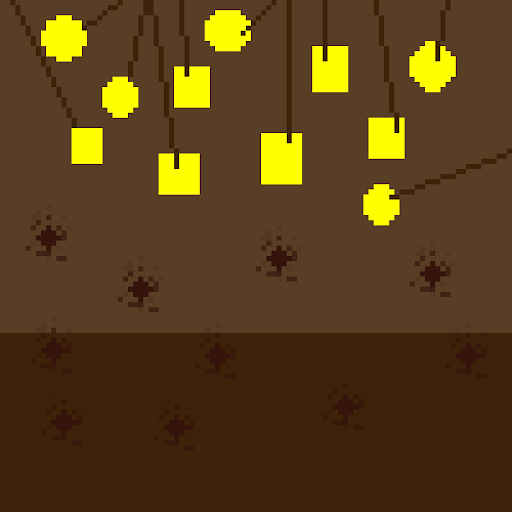
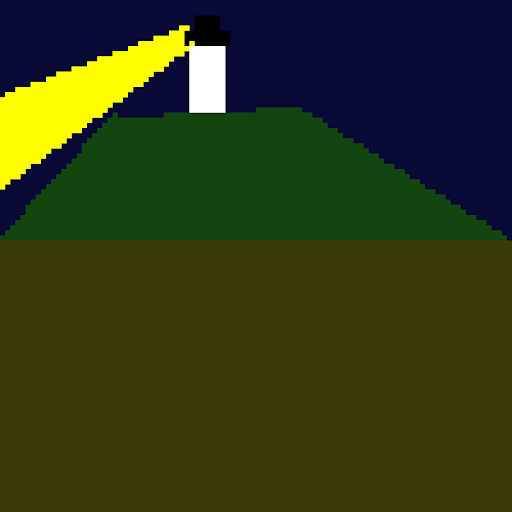
added more assets and showed in scene

diff --git a/scene.py b/scene.py
@@ -1,3 +1,5 @@
+from turtledemo.nim import SCREENWIDTH, SCREENHEIGHT
+
 import pygame
 from config import *
 
@@ -26,6 +28,7 @@ class SceneMain(SceneBase):
     def __init__(self):
         super().__init__()
         self.button_house = pygame.rect.Rect(BUTTON_HOUSE_X, BUTTON_HOUSE_Y, BUTTON_HOUSE_WIDTH, BUTTON_HOUSE_HEIGHT)
+        self.image_house = pygame.transform.smoothscale(pygame.image.load(HOUSE_IMAGE_PATH).convert_alpha(), (BUTTON_HOUSE_WIDTH, BUTTON_HOUSE_HEIGHT))
 
         self.button_murkey_water = pygame.rect.Rect(BUTTON_MURKEY_WATER_X, BUTTON_MURKEY_WATER_Y, BUTTON_MURKEY_WATER_WIDTH, BUTTON_MURKEY_WATER_HEIGHT)
         self.image_murkey_water = pygame.transform.smoothscale(pygame.image.load(MURKEY_WATER_IMAGE_PATH).convert_alpha(), (BUTTON_MURKEY_WATER_WIDTH, BUTTON_MURKEY_WATER_HEIGHT))
@@ -34,16 +37,21 @@ class SceneMain(SceneBase):
         self.image_boat_house = pygame.transform.smoothscale(pygame.image.load(BOAT_HOUSE_IMAGE_PATH).convert_alpha(), (BUTTON_BOAT_HOUSE_WIDTH, BUTTON_BOAT_HOUSE_HEIGHT))
 
         self.button_chapel = pygame.rect.Rect(BUTTON_CHAPEL_X, BUTTON_CHAPEL_Y, BUTTON_CHAPEL_WIDTH, BUTTON_CHAPEL_HEIGHT)
+        self.image_chapel = pygame.transform.smoothscale(pygame.image.load(CHAPEL_IMAGE_PATH).convert_alpha(), (BUTTON_CHAPEL_WIDTH, BUTTON_CHAPEL_HEIGHT))
 
         self.button_lighthouse = pygame.rect.Rect(BUTTON_LIGHTHOUSE_X, BUTTON_LIGHTHOUSE_Y, BUTTON_LIGHTHOUSE_WIDTH, BUTTON_LIGHTHOUSE_HEIGHT)
         self.image_lighthouse = pygame.transform.smoothscale(pygame.image.load(LIGHTHOUSE_IMAGE_PATH).convert_alpha(), (BUTTON_LIGHTHOUSE_WIDTH, BUTTON_LIGHTHOUSE_HEIGHT))
 
-
+        self.image_background = pygame.transform.smoothscale(pygame.image.load(BACKGROUND_IMAGE_PATH).convert_alpha(), (WINDOW_WIDTH, WINDOW_HEIGHT))
     def render(self, screen):
         screen.fill((0, 0, 0))
+        screen.blit(self.image_background, (0,0))
         screen.blit(self.image_boat_house, self.button_boat_house.topleft)
         screen.blit(self.image_murkey_water, self.button_murkey_water.topleft)
         screen.blit(self.image_lighthouse, self.button_lighthouse.topleft)
+        screen.blit(self.image_house, self.button_house.topleft)
+        screen.blit(self.image_chapel, self.button_chapel.topleft)
+
         pygame.draw.rect(screen, (0, 255, 0), self.button_house, 1)
         pygame.draw.rect(screen, (0, 255, 0), self.button_murkey_water, 1)
         pygame.draw.rect(screen, (0, 255, 0), self.button_boat_house, 1)

diff --git a/config.py b/config.py
@@ -23,6 +23,7 @@ BUTTON_HOUSE_X = 1000
 BUTTON_HOUSE_Y = 20
 
 HOUSE_UNLOCKED = True
+HOUSE_IMAGE_PATH = "assets/house.png"
 
 BUTTON_MURKEY_WATER_WIDTH = 250
 BUTTON_MURKEY_WATER_HEIGHT = 200
@@ -46,6 +47,7 @@ BUTTON_CHAPEL_X = 300
 BUTTON_CHAPEL_Y = 200
 
 CHAPEL_UNLOCKED = False
+CHAPEL_IMAGE_PATH = "assets/chapel.png"
 
 BUTTON_LIGHTHOUSE_WIDTH = 100
 BUTTON_LIGHTHOUSE_HEIGHT = 100
@@ -54,3 +56,5 @@ BUTTON_LIGHTHOUSE_Y = 500
 
 LIGHTHOUSE_UNLOCKED = False
 LIGHTHOUSE_IMAGE_PATH = "assets/light_house.png"
+
+BACKGROUND_IMAGE_PATH = "assets/scene_main_background.png"